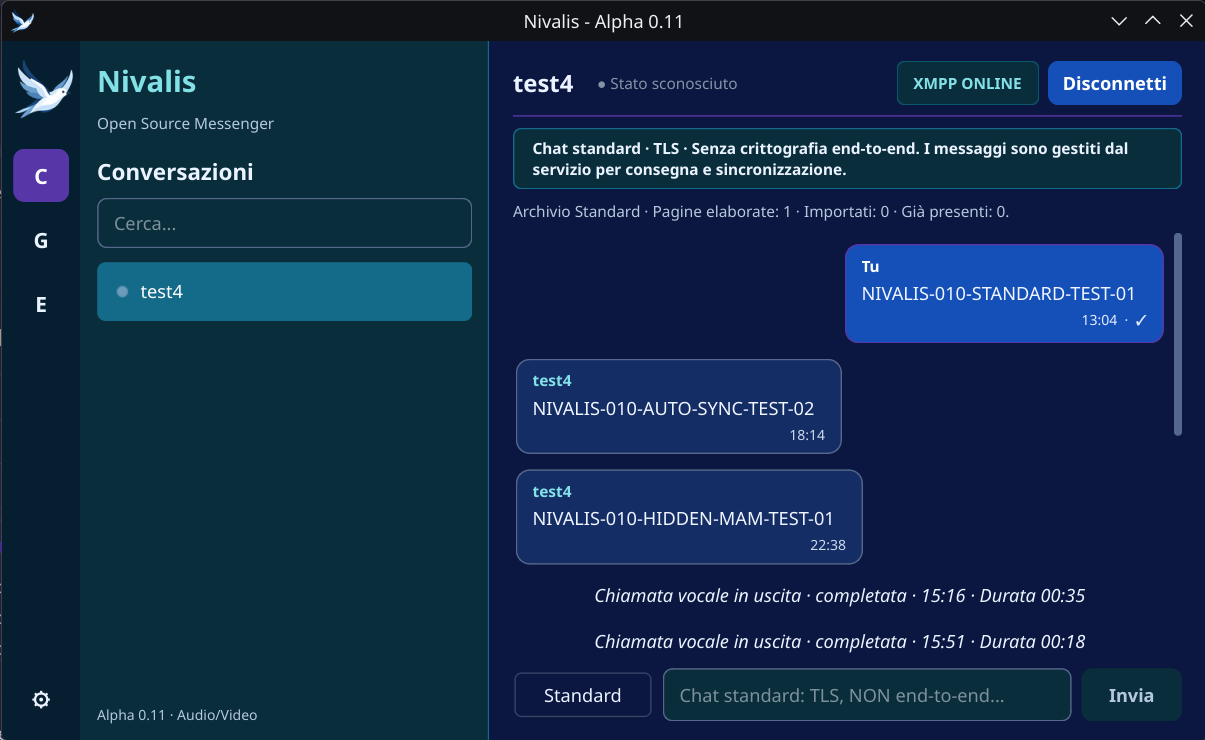
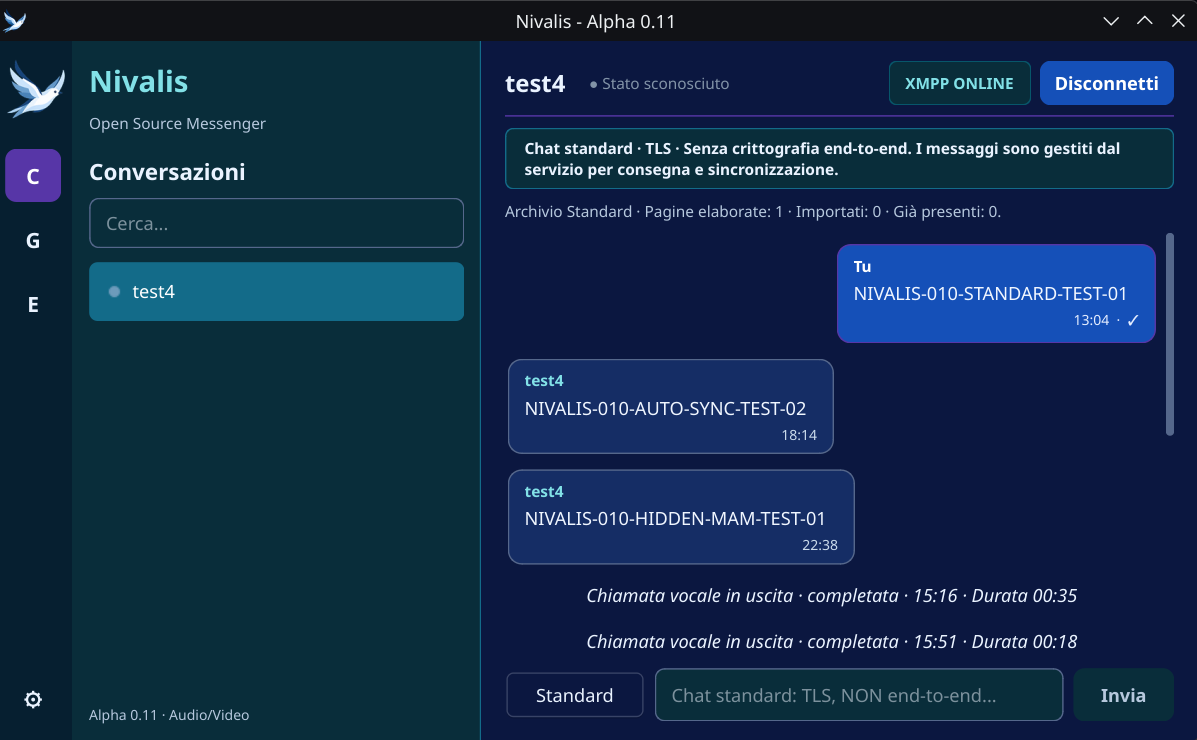
Polish official Nivalis screenshot and preview description

diff --git a/README.md b/README.md
@@ -12,7 +12,7 @@ a native GNU/Linux messaging application built with C++ and Qt6.
 
 ![Frozen Forest Qt Widgets conversation preview](assets/frozen-forest-preview.png)
 
-Offline Qt Widgets preview using sample messages.
+Real screenshot of Nivalis Alpha 0.11 running Frozen Forest, with test conversation content.
 
 ## Design philosophy
 
